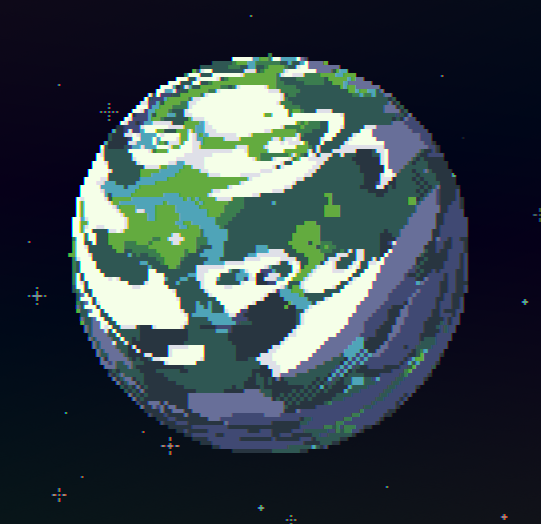
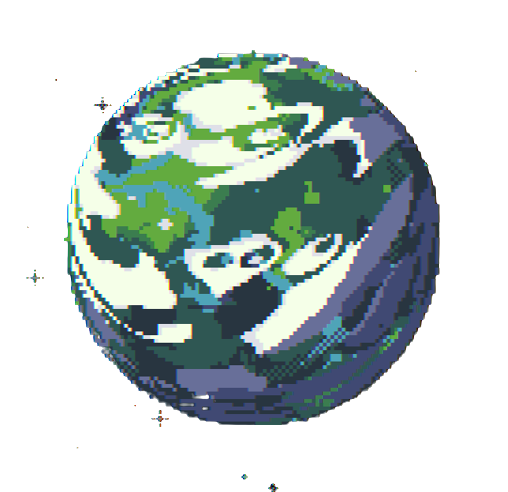
Game project stuff

diff --git a/GameProject/NewGame/MasterFile.java b/GameProject/NewGame/MasterFile.java
@@ -21,6 +21,14 @@ public class MasterFile extends PApplet{
     String gameState = "TITLE";
 
     //Images
+      //Title
+      PImage bridge;
+
+      //Select
+      PImage beach;
+      PImage p1;
+      PImage p2;
+      PImage p3;
 
 
 
@@ -28,34 +36,110 @@ public class MasterFile extends PApplet{
   //Setup Funtions
   public void settings(){
 
+    size(1000, 600);
   }
 
 
   public void setup(){
 
+    //background(100,4,37);
   }
 
 
   public void draw(){
 
+    //gameState If Statement
+    if(gameState == "TITLE"){
+      drawTitle();
+    }else if(gameState == "MANUEL"){
+      //drawManuel();
+
+    }else if(gameState == "SELECT"){
+      drawSelect();
+
+    }else if(gameState == "P1"){
+      //drawSelectP1();
+    }else if(gameState == "P1G1"){
+      //drawSelectP1G1();
+    }
   }
+
 
 
 
   //Custom Functions
   public void drawTitle(){
 
+    //Images
+    bridge = loadImage("Bridge.jpg");
+    bridge.resize(width, height);
+    background(bridge);
+    //image(bridge, 0, 0);
+
+
+    //Main text
+    textSize(50);
+    fill(235, 198, 99);
+    text("Hunt for Stars", width/20, height/6+60);
+
+
+    //Buttons
+    textSize(20);
+    fill(209, 73, 19);
+    text("Visit the Stars", width/20, height-100);
+
+    textSize(20);
+    fill(209, 73, 19);
+    text("Manual", width/20, height-75);
+
+    textSize(20);
+    fill(209, 73, 19);
+    text("Credits", width/20, height-50);
+
+
+    //Collison Detection
+    //makes it glow
   }
 
 
   public void drawSelect(){
 
+    background(5, 21, 33);
+
+    //Images
+    beach = loadImage("Beach.png");
+    beach.resize(width, height);
+    //background(beach);
+    //image(beach, 0, 0);
+
+      //Planets
+      p1 = loadImage("P1Earth.png");
+      p1.resize(600, 600);
+      image(p1, width/2+25, height/2-100);
+
+      p2 = loadImage("P2Mars.png");
+      p2.resize(300, 300);
+      image(p2, width/10, height/4);
+
+      p3 = loadImage("P3Alge.png");
+      p3.resize(200, 200);
+      image(p3, width/2, height/20);
   }
+
+
+
+  public void mouseClicked(){
+
+
+  }
+
 
 
 
   //Main
   public static void main(String[] args){
 
+    //PApplet
+    PApplet.main("MasterFile");
   }
 }

diff --git a/Semester2/Unit11/AnimalCalculator.java b/Semester2/Unit11/AnimalCalculator.java
@@ -19,9 +19,9 @@ public class AnimalCalculator{
   }
 
 
-  public static int avLegCount(ArrayList<Animal> animals){
+  public static double avLegCount(ArrayList<Animal> animals){
 
-    int avLegCount = 0;
+    double avLegCount = 0;
 
     for(Animal a : animals){
       avLegCount += a.getLegCount();
@@ -34,7 +34,7 @@ public class AnimalCalculator{
   public static String leastLegCount(ArrayList<Animal> animals){
 
     String leastLegCount = " ";
-    int leastLegs = 0;
+    double leastLegs = 0;
 
     for(Animal a : animals){
 
@@ -49,11 +49,29 @@ public class AnimalCalculator{
 
 
 
-  /*
-  public void testFunctions(ArrayList<Animal> animals, String expected, int expected2, boolean expected3){
 
+  public static void testFunctions(ArrayList<Animal> animals, double expected1, String expected2){
+
+    double result1 = avLegCount(animals);
+    String result2 = leastLegCount(animals);
+
+    System.out.println("Animals: ");
+
+    for(Animal a : animals){
+      System.out.println(a.getName() + " ");
+    }
+
+
+    System.out.println("expected1: " + expected1 + " result1: " + result1);
+    System.out.println("expected2: " + expected2 + " result2: " + result2);
+
+    if( (expected1 == result1) && (expected2 == result2) ){
+      System.out.println("W");
+    }else{
+      System.out.println("L");
+    }
   }
-  */
+
 
 
 
@@ -76,5 +94,7 @@ public class AnimalCalculator{
     everything(animals);
     System.out.println("Average Leg Count: " + avLegCount(animals));
     System.out.println("Least Leg Count: " + leastLegCount(animals));
+
+    testFunctions(animals, 3.5, "Fish");
   }
 }
